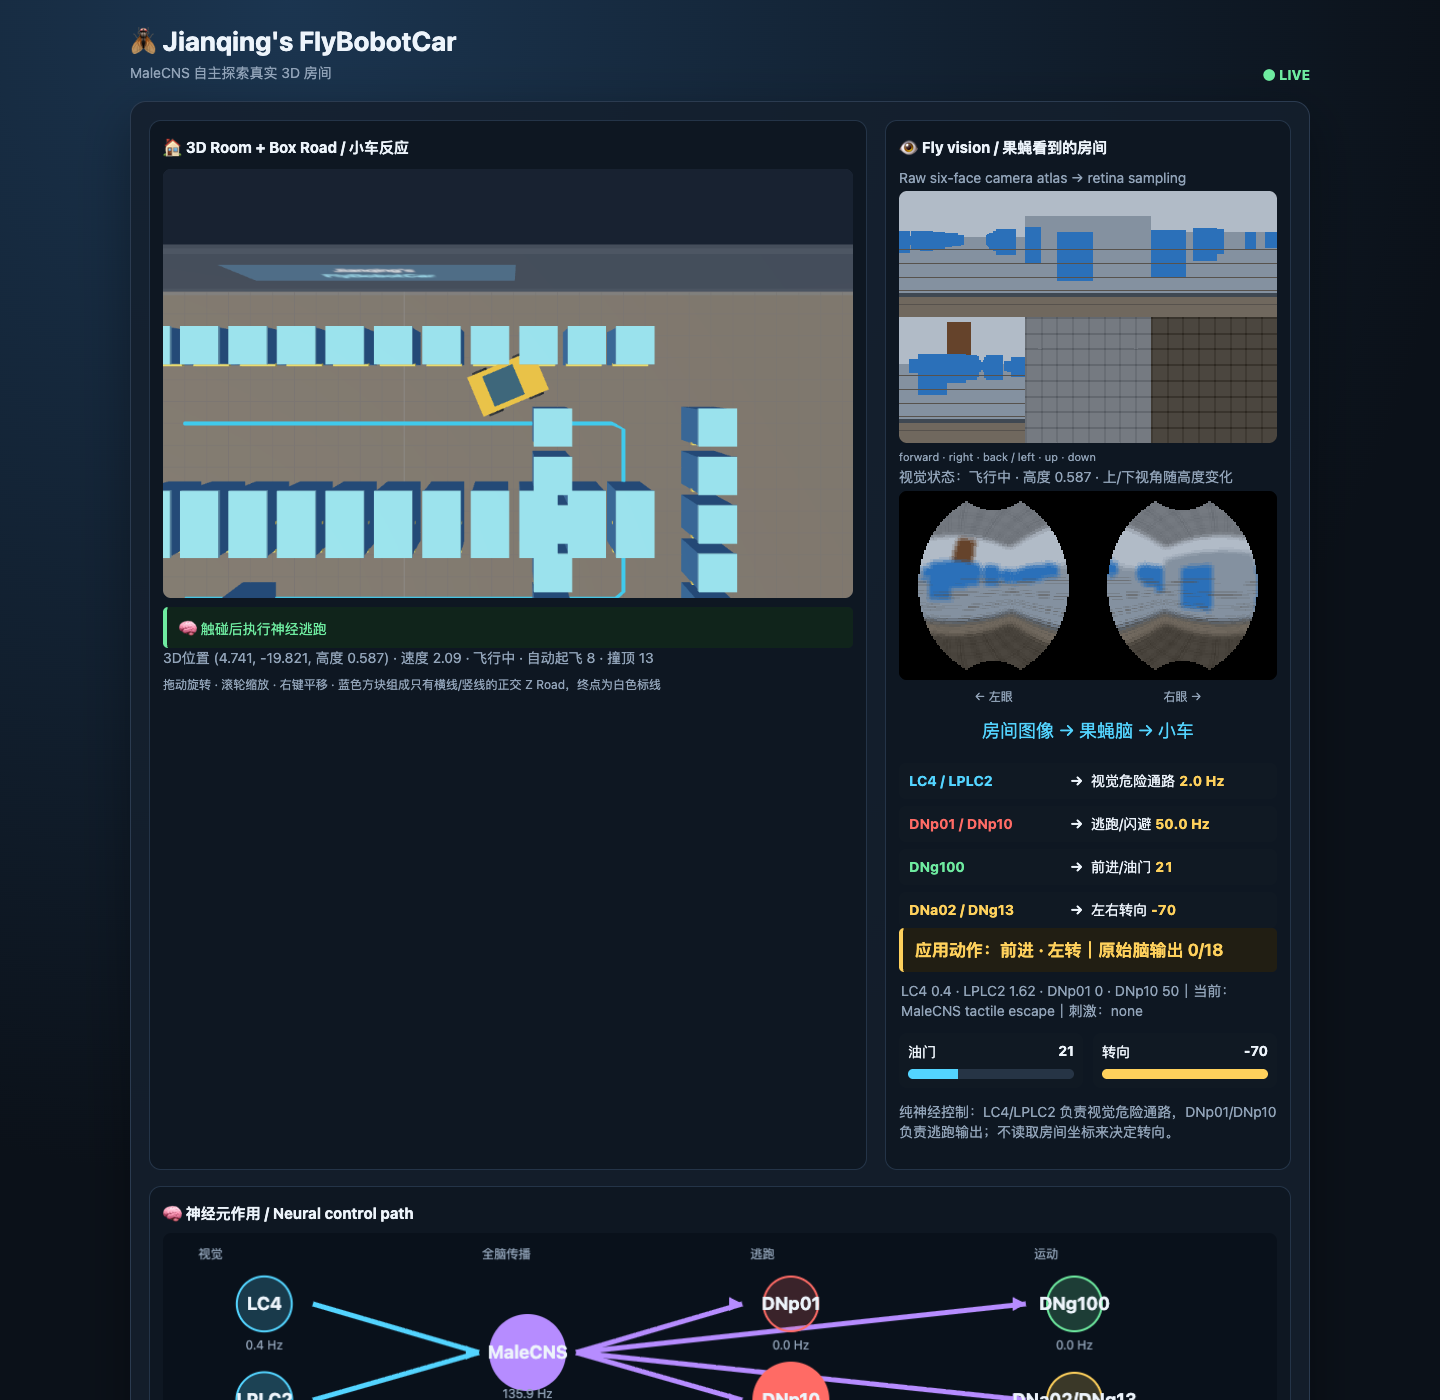
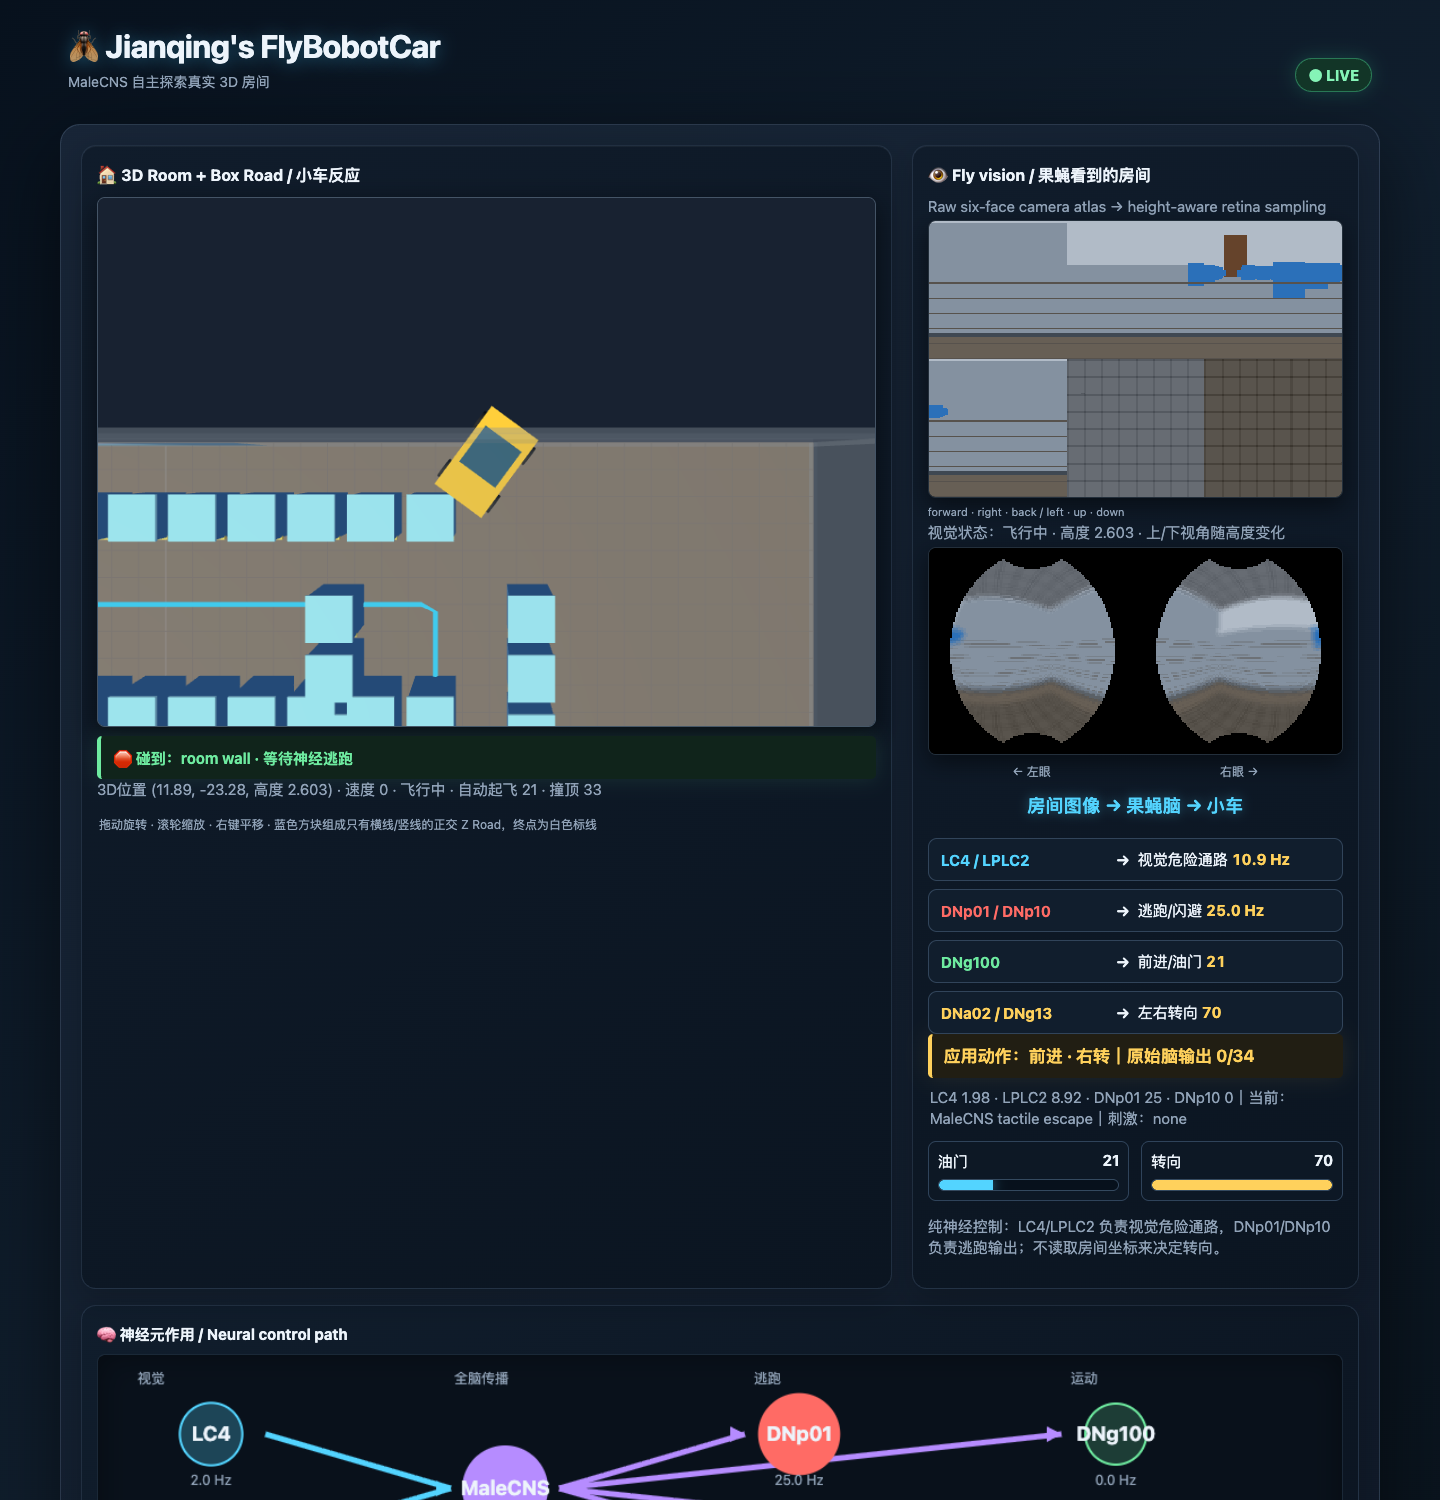
Refresh FlyBobotCar dashboard visual design

diff --git a/index.html b/index.html
@@ -1,6 +1,8 @@
 <!doctype html><html lang="zh-CN"><head><meta charset="utf-8"><title>Jianqing's FlyBobotCar</title>
-<style>:root{--bg:#0b1119;--panel:#141f2d;--line:#2b3b50;--text:#edf4fb;--muted:#91a3b8;--cyan:#53d4ff;--yellow:#ffd15c;--green:#6eeba0}*{box-sizing:border-box}body{margin:0;background:radial-gradient(circle at 20% 0,#1b3550,#0b1119 56%);color:var(--text);font:14px system-ui}.wrap{width:min(1180px,95vw);margin:24px auto}.head{display:flex;justify-content:space-between;align-items:end}.head h1{margin:0 0 4px;font-size:27px}.muted{color:var(--muted)}.live{color:var(--green);font-weight:700}.panel{background:#141f2ddd;border:1px solid var(--line);border-radius:16px;padding:18px;margin-top:18px;box-shadow:0 18px 50px #0005}.grid{display:grid;grid-template-columns:1.38fr .78fr;gap:18px}.card{background:#0e1722;border:1px solid #243448;border-radius:12px;padding:13px}.card h2{font-size:15px;margin:0 0 10px}.scene{width:100%;height:auto;display:block;border-radius:8px;background:#202b39;cursor:grab}.vision{width:100%;image-rendering:pixelated;background:#03070b;border-radius:8px}.eyes{display:flex;justify-content:space-around;color:var(--muted);font-size:12px;margin-top:5px}.flow{text-align:center;color:var(--cyan);font-size:18px;padding:13px 0 8px}.action{border-left:4px solid var(--yellow);background:#211e13;padding:10px 12px;font-size:17px;font-weight:650;color:var(--yellow);border-radius:5px}.reaction{border-left:4px solid var(--green);background:#10241b;padding:9px 12px;margin-top:9px;color:var(--green);border-radius:5px}.mapping{display:grid;gap:7px;margin-top:12px}.maprow{display:grid;grid-template-columns:1fr auto 1.15fr;align-items:center;gap:8px;background:#101923;border-radius:7px;padding:8px 10px}.mapin{font-weight:700}.mapout{color:#ecf3fb}.mapval{font-variant-numeric:tabular-nums;color:var(--yellow);font-weight:700}.meters{display:grid;grid-template-columns:1fr 1fr;gap:10px;margin-top:12px}.meter{background:#101923;padding:9px;border-radius:8px}.meterhead{display:flex;justify-content:space-between}.track{height:10px;border-radius:8px;background:#263445;margin-top:7px;overflow:hidden}.fill{height:100%;background:var(--cyan);transition:width .2s}.fill.turn{background:var(--yellow)}.neural-card{margin-top:16px;background:#0e1722;border:1px solid #243448;border-radius:12px;padding:13px}.neural-card h2{font-size:15px;margin:0 0 8px}.neural-card canvas{width:100%;height:auto;background:#09111b;border-radius:8px}.stats{display:grid;grid-template-columns:repeat(5,1fr);gap:10px;margin-top:16px}.stat{background:#101923;padding:11px;border-radius:9px}.label{font-size:11px;color:var(--muted)}.value{font-size:20px;margin-top:4px;font-variant-numeric:tabular-nums}button{border:0;border-radius:7px;padding:9px 14px;background:#267fc5;color:white;margin:14px 8px 0 0;cursor:pointer}.hint{margin-top:8px;font-size:12px;color:var(--muted)}@media(max-width:800px){.grid{grid-template-columns:1fr}.stats{grid-template-columns:repeat(3,1fr)}}</style>
-<script type="importmap">{"imports":{"three":"https://cdn.jsdelivr.net/npm/three@0.180.0/build/three.module.js"}}</script></head><body><div class="wrap"><div class="head"><div><h1>🪰 Jianqing's FlyBobotCar</h1><div class="muted">MaleCNS 自主探索真实 3D 房间</div></div><div class="live">● LIVE</div></div><div class="panel"><div class="grid"><div class="card"><h2>🏠 3D Room + Box Road / 小车反应</h2><canvas id="scene" class="scene" width="900" height="560"></canvas><div class="reaction" id="reaction">等待小车反应…</div><div class="muted" id="pose">—</div><div class="hint">拖动旋转 · 滚轮缩放 · 右键平移 · 蓝色方块组成只有横线/竖线的正交 Z Road，终点为白色标线</div></div><div class="card"><h2>👁 Fly vision / 果蝇看到的房间</h2><div class="muted" style="margin-bottom:5px">Raw six-face camera atlas → height-aware retina sampling</div><canvas id="cameraRaw" class="vision" width="384" height="256"></canvas><div class="muted" style="font-size:11px;margin:4px 0">forward · right · back / left · up · down</div><div id="visionState" class="muted" style="margin:4px 0">视觉状态：—</div><canvas id="vision" class="vision" width="256" height="128"></canvas><div class="eyes"><span>← 左眼</span><span>右眼 →</span></div><div class="flow">房间图像 → 果蝇脑 → 小车</div><div class="mapping"><div class="maprow"><span class="mapin" style="color:#53d4ff">LC4 / LPLC2</span><b>→</b><span class="mapout">视觉危险通路 <b class="mapval" id="mapvision">0 Hz</b></span></div><div class="maprow"><span class="mapin" style="color:#ff6b65">DNp01 / DNp10</span><b>→</b><span class="mapout">逃跑/闪避 <b class="mapval" id="mapescape">0 Hz</b></span></div><div class="maprow"><span class="mapin" style="color:#6eeba0">DNg100</span><b>→</b><span class="mapout">前进/油门 <b class="mapval" id="mapforward">0</b></span></div><div class="maprow"><span class="mapin" style="color:#ffd15c">DNa02 / DNg13</span><b>→</b><span class="mapout">左右转向 <b class="mapval" id="mapturn">0</b></span></div></div><div class="action" id="action">动作：—</div><div class="muted" id="reflex" style="padding:9px 2px 0">作用：LC4/LPLC2=视觉危险 · DNp01/DNp10=逃跑 · DNg100=前进 · DNa02/DNg13=转向</div><div class="meters"><div class="meter"><div class="meterhead"><span>油门</span><b id="tv">0</b></div><div class="track"><div class="fill" id="throttle"></div></div></div><div class="meter"><div class="meterhead"><span>转向</span><b id="sv">0</b></div><div class="track"><div class="fill turn" id="steering"></div></div></div></div><p class="muted">纯神经控制：LC4/LPLC2 负责视觉危险通路，DNp01/DNp10 负责逃跑输出；不读取房间坐标来决定转向。</p></div></div><div class="neural-card"><h2>🧠 神经元作用 / Neural control path</h2><canvas id="neuralMap" width="1100" height="230"></canvas><div class="muted">实时脉冲强度：LC4/LPLC2=视觉危险 · DNp01/DNp10=逃跑 · DNg100=前进 · DNa02/DNg13=转向</div><div style="margin-top:10px"><button onclick="stim('LC4')">刺激 LC4</button><button onclick="stim('LPLC2')">刺激 LPLC2</button><button onclick="stim('DNp01')">刺激 DNp01</button><button onclick="stim('DNg100')">刺激 DNg100</button><button onclick="stim('DNa02')">刺激 DNa02</button><button onclick="escapeTest()">🚨 Escape Test</button><button onclick="flightTest()">🪽 Flight Test</button></div><div id="events" class="muted" style="margin-top:8px;line-height:1.5">实验事件：—</div></div><div class="stats"><div class="stat"><div class="label">神经元</div><div class="value" id="neurons">—</div></div><div class="stat"><div class="label">本步脉冲</div><div class="value" id="spikes">—</div></div><div class="stat"><div class="label">行驶距离</div><div class="value" id="distance">—</div></div><div class="stat"><div class="label">碰撞次数</div><div class="value" id="collisions">—</div></div><div class="stat"><div class="label">Z Road 成功</div><div class="value" id="successes">—</div></div></div><button onclick="post('/reset')">重置小车</button><button onclick="post('/pause')">暂停 / 继续</button><span class="muted" id="status">加载 3D 房间…</span></div></div></div>
+<style>:root{--bg:#0b1119;--panel:#141f2d;--line:#2b3b50;--text:#edf4fb;--muted:#91a3b8;--cyan:#53d4ff;--yellow:#ffd15c;--green:#6eeba0}*{box-sizing:border-box}body{margin:0;background:radial-gradient(circle at 20% 0,#1b3550,#0b1119 56%);color:var(--text);font:14px system-ui}.wrap{width:min(1180px,95vw);margin:24px auto}.head{display:flex;justify-content:space-between;align-items:end}.head h1{margin:0 0 4px;font-size:27px}.muted{color:var(--muted)}.live{color:var(--green);font-weight:700}.panel{background:#141f2ddd;border:1px solid var(--line);border-radius:16px;padding:18px;margin-top:18px;box-shadow:0 18px 50px #0005}.grid{display:grid;grid-template-columns:1.38fr .78fr;gap:18px}.card{background:#0e1722;border:1px solid #243448;border-radius:12px;padding:13px}.card h2{font-size:15px;margin:0 0 10px}.scene{width:100%;height:auto;display:block;border-radius:8px;background:#202b39;cursor:grab}.vision{width:100%;image-rendering:pixelated;background:#03070b;border-radius:8px}.eyes{display:flex;justify-content:space-around;color:var(--muted);font-size:12px;margin-top:5px}.flow{text-align:center;color:var(--cyan);font-size:18px;padding:13px 0 8px}.action{border-left:4px solid var(--yellow);background:#211e13;padding:10px 12px;font-size:17px;font-weight:650;color:var(--yellow);border-radius:5px}.reaction{border-left:4px solid var(--green);background:#10241b;padding:9px 12px;margin-top:9px;color:var(--green);border-radius:5px}.mapping{display:grid;gap:7px;margin-top:12px}.maprow{display:grid;grid-template-columns:1fr auto 1.15fr;align-items:center;gap:8px;background:#101923;border-radius:7px;padding:8px 10px}.mapin{font-weight:700}.mapout{color:#ecf3fb}.mapval{font-variant-numeric:tabular-nums;color:var(--yellow);font-weight:700}.meters{display:grid;grid-template-columns:1fr 1fr;gap:10px;margin-top:12px}.meter{background:#101923;padding:9px;border-radius:8px}.meterhead{display:flex;justify-content:space-between}.track{height:10px;border-radius:8px;background:#263445;margin-top:7px;overflow:hidden}.fill{height:100%;background:var(--cyan);transition:width .2s}.fill.turn{background:var(--yellow)}.neural-card{margin-top:16px;background:#0e1722;border:1px solid #243448;border-radius:12px;padding:13px}.neural-card h2{font-size:15px;margin:0 0 8px}.neural-card canvas{width:100%;height:auto;background:#09111b;border-radius:8px}.stats{display:grid;grid-template-columns:repeat(5,1fr);gap:10px;margin-top:16px}.stat{background:#101923;padding:11px;border-radius:9px}.label{font-size:11px;color:var(--muted)}.value{font-size:20px;margin-top:4px;font-variant-numeric:tabular-nums}button{border:0;border-radius:7px;padding:9px 14px;background:#267fc5;color:white;margin:14px 8px 0 0;cursor:pointer}.hint{margin-top:8px;font-size:12px;color:var(--muted)}@media(max-width:800px){.grid{grid-template-columns:1fr}.stats{grid-template-columns:repeat(3,1fr)}}</style><style>
+/* Dashboard refresh */
+body{background:linear-gradient(135deg,#07111d 0%,#101e2d 48%,#071018 100%);font-size:15px}.wrap{width:min(1320px,96vw);margin:22px auto}.head{padding:4px 8px 14px}.head h1{font-size:32px;letter-spacing:-.6px;text-shadow:0 2px 18px #42c9ff55}.head .muted{font-size:14px}.live{padding:7px 12px;border:1px solid #4bdc9a66;border-radius:999px;background:#123527;color:#85f4b7;box-shadow:0 0 18px #36d89933}.panel{padding:20px;background:linear-gradient(145deg,#182638ee,#0e1826ee);border:1px solid #52657e66;border-radius:20px;box-shadow:0 25px 80px #0008}.grid{grid-template-columns:minmax(0,1.45fr) minmax(360px,.8fr);gap:20px}.card{background:linear-gradient(145deg,#101c2b,#0b1521);border:1px solid #40546d66;border-radius:15px;padding:15px;box-shadow:inset 0 1px #ffffff0b,0 10px 30px #0003}.card h2{font-size:16px;letter-spacing:.1px}.scene{border:1px solid #7b91aa66;box-shadow:0 8px 25px #0008;min-height:530px;object-fit:cover}.vision{border:1px solid #536a8266;box-shadow:0 8px 22px #0007}.flow{font-weight:700;letter-spacing:.3px;text-shadow:0 0 12px #53d4ff55}.mapping{gap:8px}.maprow{background:#111e2d;border:1px solid #31445a;border-radius:9px;padding:10px 12px;transition:background .2s,transform .2s}.maprow:hover{background:#1b3045;transform:translateX(3px)}.action{font-size:17px;box-shadow:0 0 22px #ffd15c18}.reaction{font-weight:650;box-shadow:0 0 20px #6eeba01c}.meters{gap:12px}.meter{border:1px solid #2f435a;background:#0d1825}.track{height:12px;background:#07111c;border:1px solid #34495f}.fill{box-shadow:0 0 12px #53d4ff99}.fill.turn{box-shadow:0 0 12px #ffd15c99}.neural-card{background:linear-gradient(145deg,#101d2c,#0b1420);border:1px solid #40546d66;border-radius:15px;padding:15px;box-shadow:0 10px 30px #0003}.neural-card canvas{border:1px solid #344a6266;box-shadow:inset 0 0 30px #0006}.stats{gap:12px}.stat{border:1px solid #2f435a;background:linear-gradient(145deg,#142437,#0d1825);box-shadow:inset 0 1px #ffffff09}.label{font-size:12px;letter-spacing:.4px;text-transform:uppercase}.value{font-size:24px;font-weight:750;color:#f4f8ff}.stat:nth-child(1) .value{color:#b68cff}.stat:nth-child(2) .value{color:#53d4ff}.stat:nth-child(3) .value{color:#6eeba0}.stat:nth-child(4) .value{color:#ff817b}.stat:nth-child(5) .value{color:#ffd15c}button{border:1px solid #6eaee866;background:linear-gradient(180deg,#318bd0,#1e5f9b);font-weight:700;box-shadow:0 5px 14px #0004;transition:transform .15s,filter .15s}button:hover{filter:brightness(1.2);transform:translateY(-1px)}button:active{transform:translateY(1px)}.hint{padding:8px 2px}
+</style><script type="importmap">{"imports":{"three":"https://cdn.jsdelivr.net/npm/three@0.180.0/build/three.module.js"}}</script></head><body><div class="wrap"><div class="head"><div><h1>🪰 Jianqing's FlyBobotCar</h1><div class="muted">MaleCNS 自主探索真实 3D 房间</div></div><div class="live">● LIVE</div></div><div class="panel"><div class="grid"><div class="card"><h2>🏠 3D Room + Box Road / 小车反应</h2><canvas id="scene" class="scene" width="900" height="560"></canvas><div class="reaction" id="reaction">等待小车反应…</div><div class="muted" id="pose">—</div><div class="hint">拖动旋转 · 滚轮缩放 · 右键平移 · 蓝色方块组成只有横线/竖线的正交 Z Road，终点为白色标线</div></div><div class="card"><h2>👁 Fly vision / 果蝇看到的房间</h2><div class="muted" style="margin-bottom:5px">Raw six-face camera atlas → height-aware retina sampling</div><canvas id="cameraRaw" class="vision" width="384" height="256"></canvas><div class="muted" style="font-size:11px;margin:4px 0">forward · right · back / left · up · down</div><div id="visionState" class="muted" style="margin:4px 0">视觉状态：—</div><canvas id="vision" class="vision" width="256" height="128"></canvas><div class="eyes"><span>← 左眼</span><span>右眼 →</span></div><div class="flow">房间图像 → 果蝇脑 → 小车</div><div class="mapping"><div class="maprow"><span class="mapin" style="color:#53d4ff">LC4 / LPLC2</span><b>→</b><span class="mapout">视觉危险通路 <b class="mapval" id="mapvision">0 Hz</b></span></div><div class="maprow"><span class="mapin" style="color:#ff6b65">DNp01 / DNp10</span><b>→</b><span class="mapout">逃跑/闪避 <b class="mapval" id="mapescape">0 Hz</b></span></div><div class="maprow"><span class="mapin" style="color:#6eeba0">DNg100</span><b>→</b><span class="mapout">前进/油门 <b class="mapval" id="mapforward">0</b></span></div><div class="maprow"><span class="mapin" style="color:#ffd15c">DNa02 / DNg13</span><b>→</b><span class="mapout">左右转向 <b class="mapval" id="mapturn">0</b></span></div></div><div class="action" id="action">动作：—</div><div class="muted" id="reflex" style="padding:9px 2px 0">作用：LC4/LPLC2=视觉危险 · DNp01/DNp10=逃跑 · DNg100=前进 · DNa02/DNg13=转向</div><div class="meters"><div class="meter"><div class="meterhead"><span>油门</span><b id="tv">0</b></div><div class="track"><div class="fill" id="throttle"></div></div></div><div class="meter"><div class="meterhead"><span>转向</span><b id="sv">0</b></div><div class="track"><div class="fill turn" id="steering"></div></div></div></div><p class="muted">纯神经控制：LC4/LPLC2 负责视觉危险通路，DNp01/DNp10 负责逃跑输出；不读取房间坐标来决定转向。</p></div></div><div class="neural-card"><h2>🧠 神经元作用 / Neural control path</h2><canvas id="neuralMap" width="1100" height="230"></canvas><div class="muted">实时脉冲强度：LC4/LPLC2=视觉危险 · DNp01/DNp10=逃跑 · DNg100=前进 · DNa02/DNg13=转向</div><div style="margin-top:10px"><button onclick="stim('LC4')">刺激 LC4</button><button onclick="stim('LPLC2')">刺激 LPLC2</button><button onclick="stim('DNp01')">刺激 DNp01</button><button onclick="stim('DNg100')">刺激 DNg100</button><button onclick="stim('DNa02')">刺激 DNa02</button><button onclick="escapeTest()">🚨 Escape Test</button><button onclick="flightTest()">🪽 Flight Test</button></div><div id="events" class="muted" style="margin-top:8px;line-height:1.5">实验事件：—</div></div><div class="stats"><div class="stat"><div class="label">神经元</div><div class="value" id="neurons">—</div></div><div class="stat"><div class="label">本步脉冲</div><div class="value" id="spikes">—</div></div><div class="stat"><div class="label">行驶距离</div><div class="value" id="distance">—</div></div><div class="stat"><div class="label">碰撞次数</div><div class="value" id="collisions">—</div></div><div class="stat"><div class="label">Z Road 成功</div><div class="value" id="successes">—</div></div></div><button onclick="post('/reset')">重置小车</button><button onclick="post('/pause')">暂停 / 继续</button><span class="muted" id="status">加载 3D 房间…</span></div></div></div>
 <script type="module">
 import * as THREE from 'three';import {OrbitControls} from 'https://cdn.jsdelivr.net/npm/three@0.180.0/examples/jsm/controls/OrbitControls.js';
 const $=id=>document.getElementById(id);let state={x:0,y:0,heading:0},car,scene,cam,renderer,controls,hasState=false;
